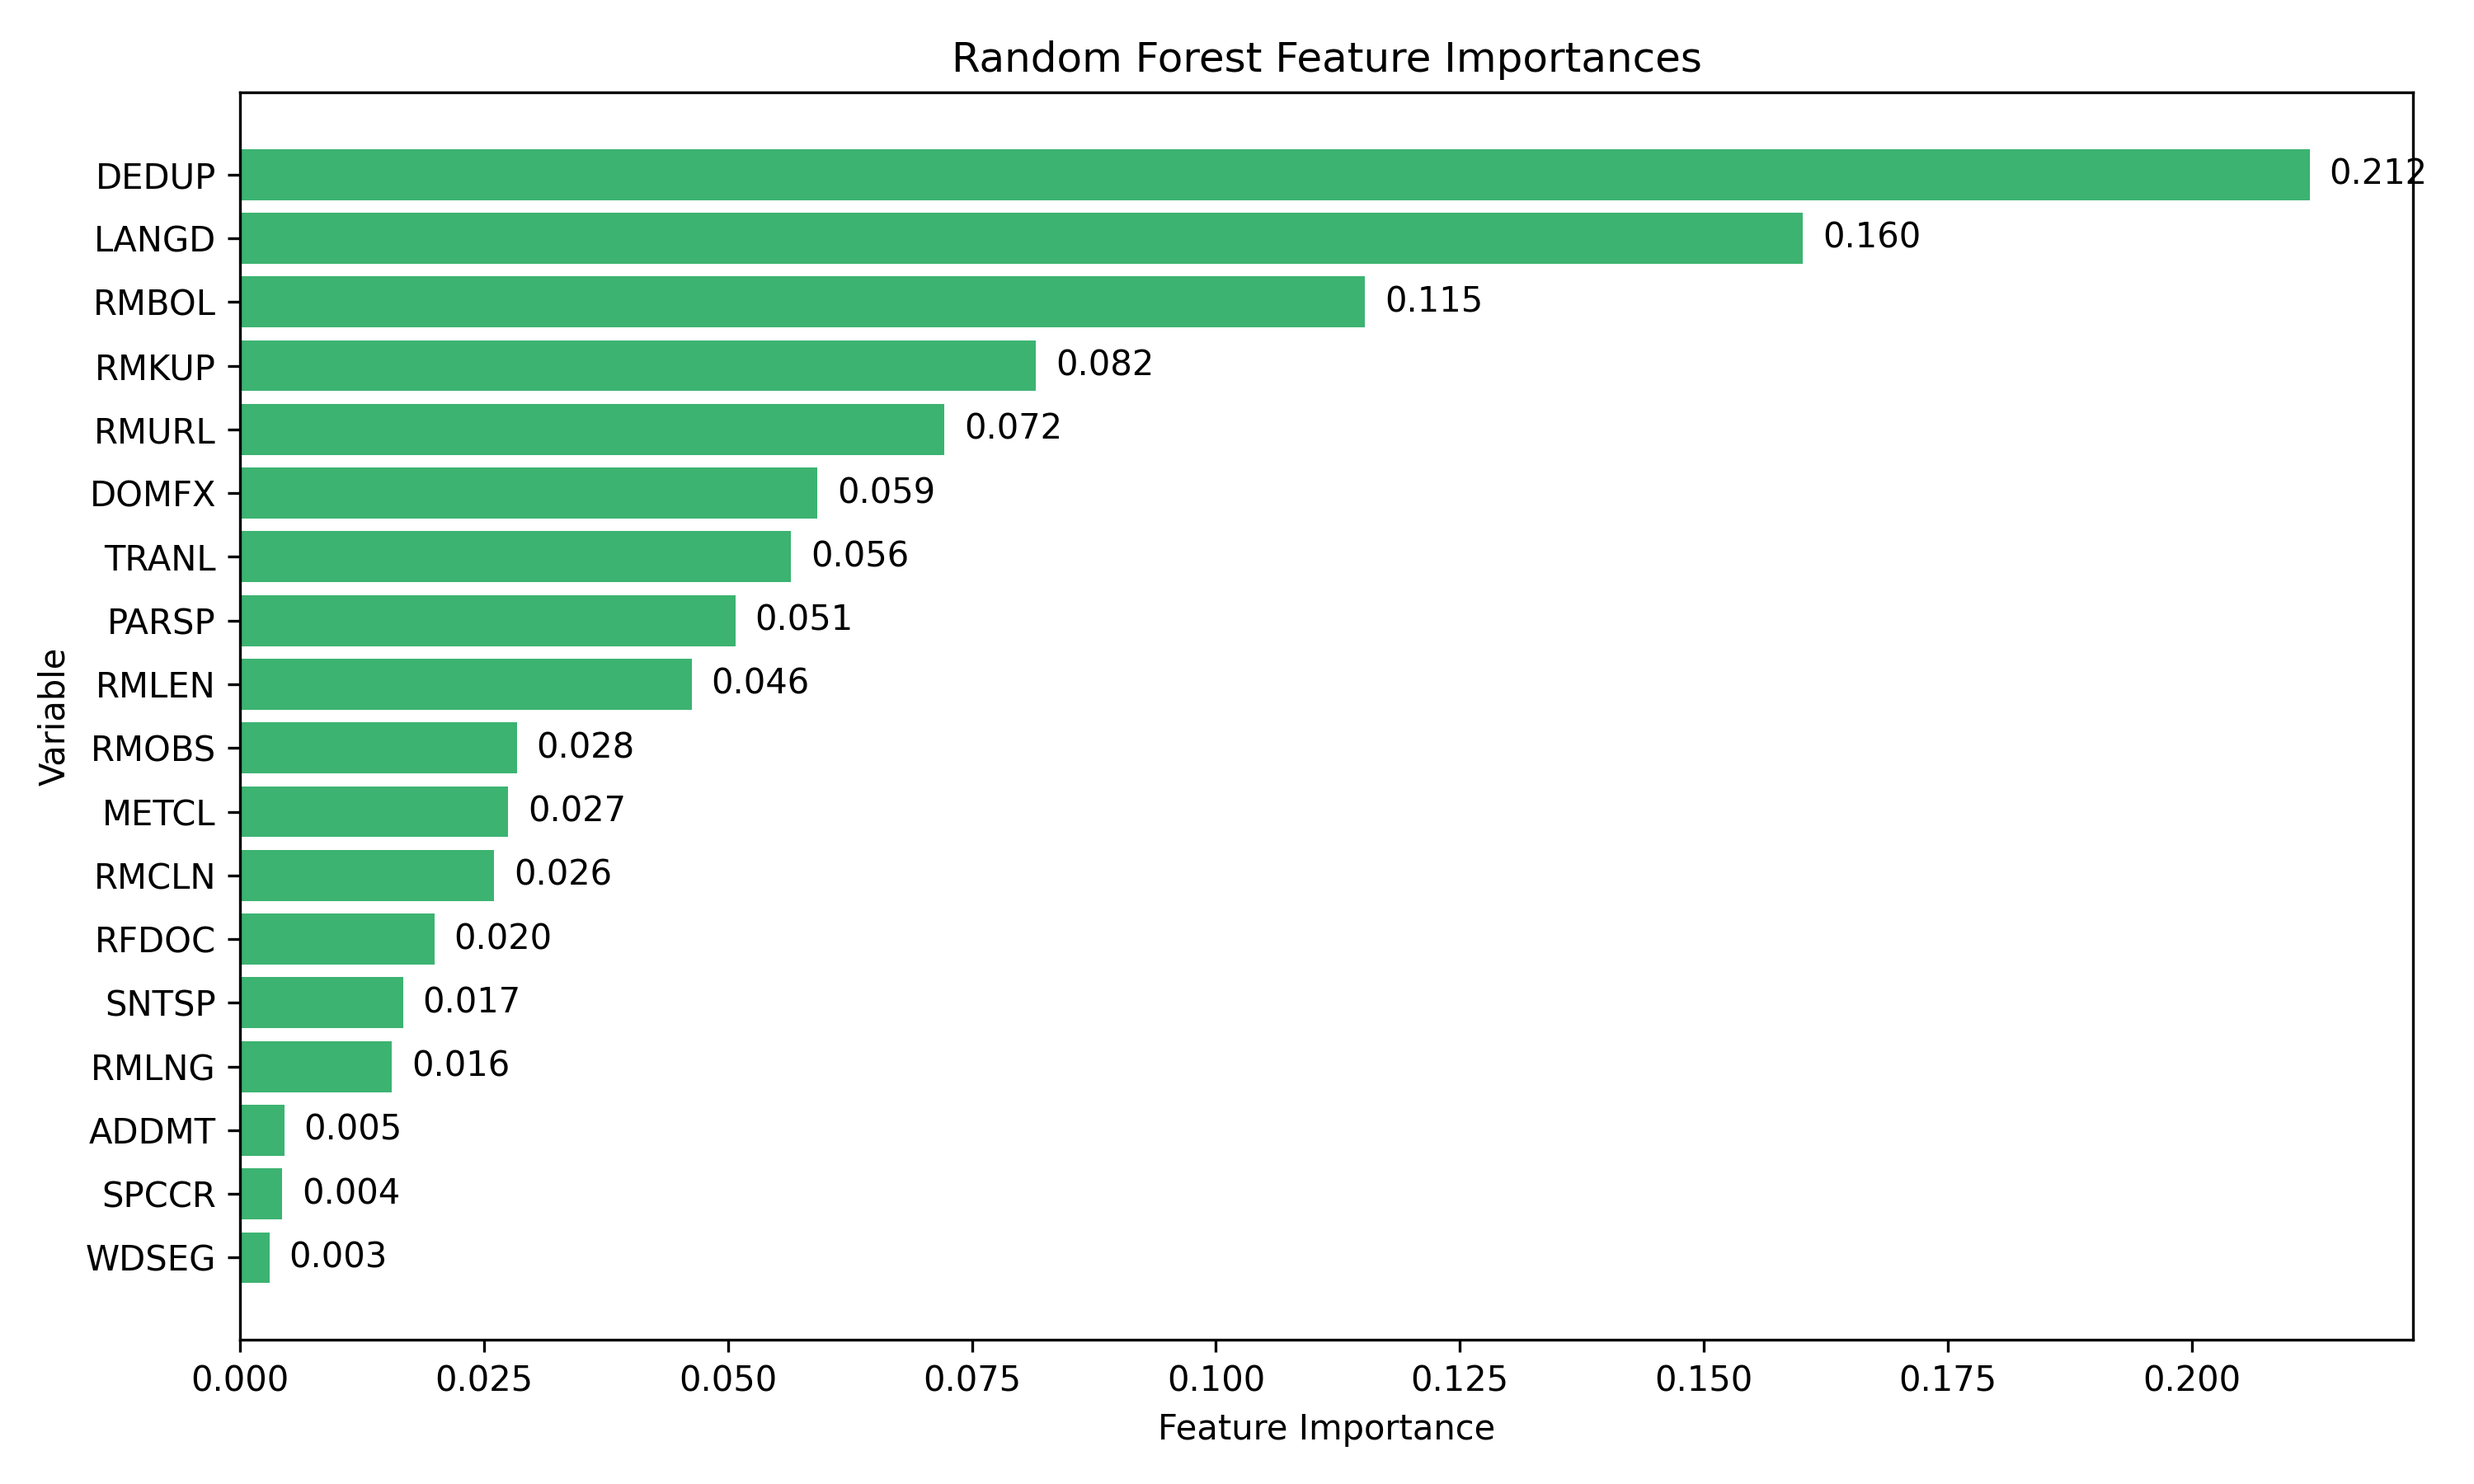
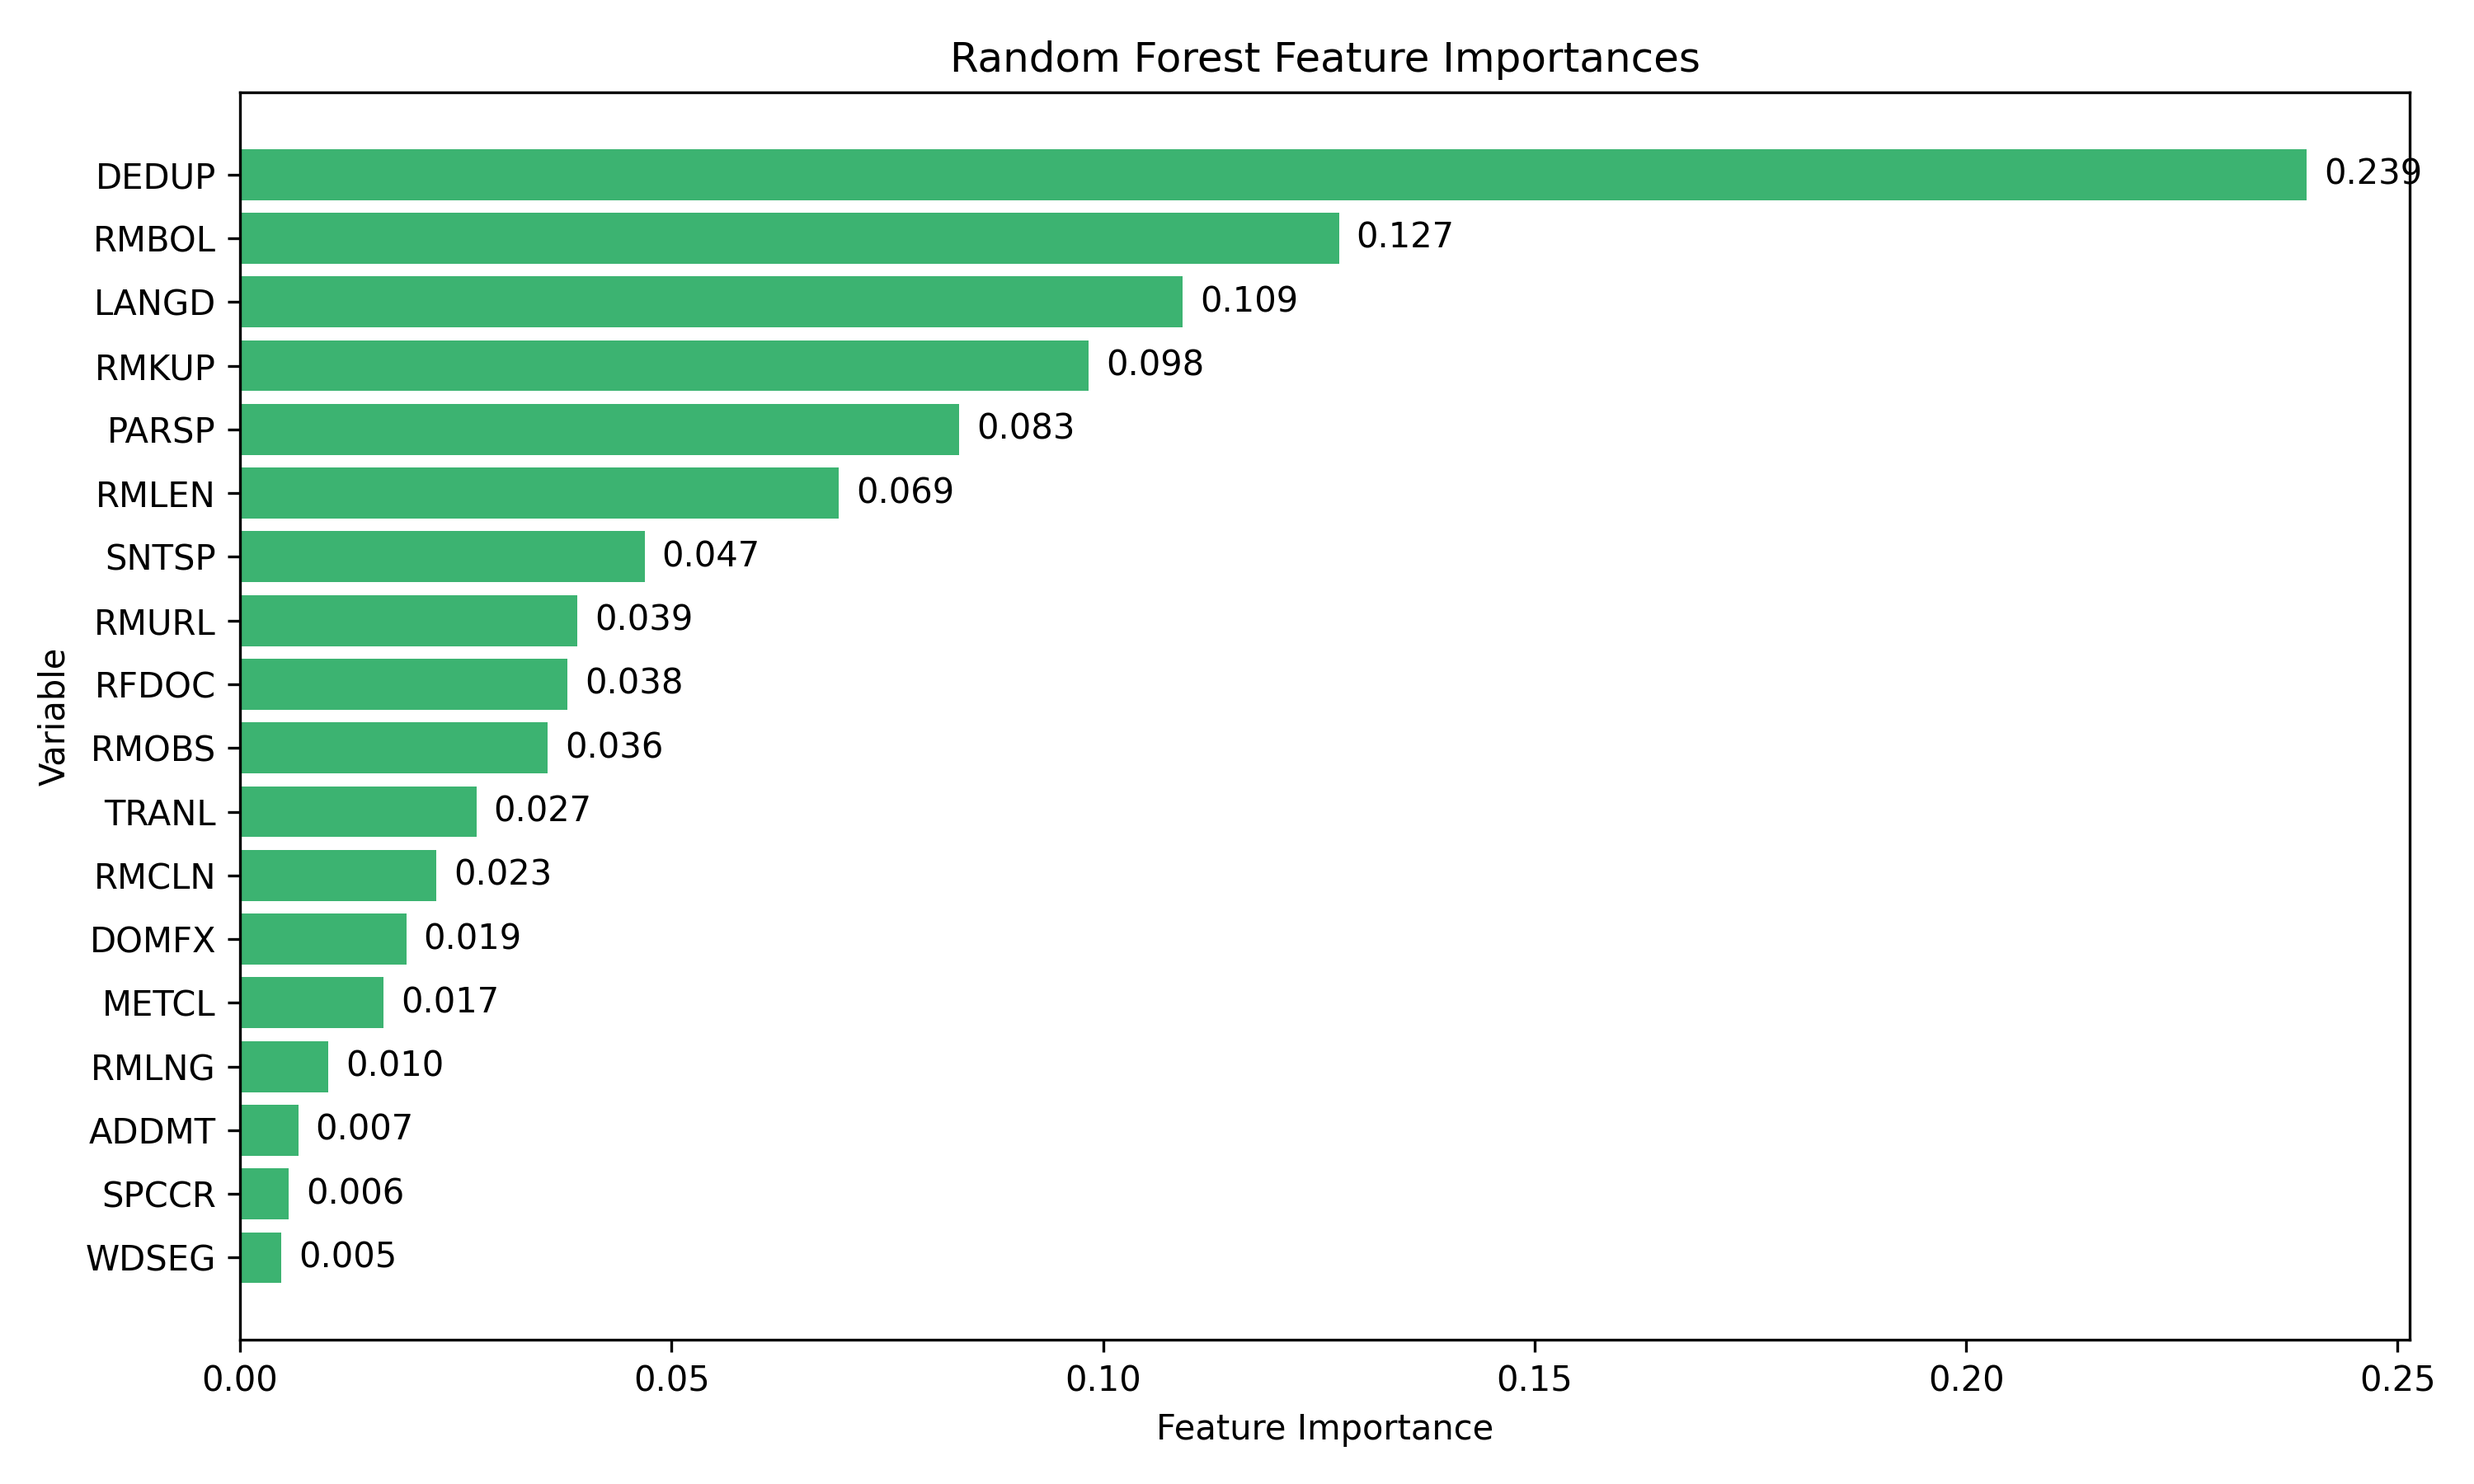
LR+RF for 19 datasets

diff --git a/Sieve-linear-regressions/lr.py b/Sieve-linear-regressions/lr.py
@@ -13,32 +13,12 @@ import numpy as np
 # 1. Create your dataset
 # ----------------------------------------
 
-data = {
-    "Score": [69.5, -27.5, 109, -38.5, -107, 121.5, 86.5, 79, 96, 113, 73, 114, 65, -108],
-    "LANGD": [True, True, True, True, True, True, True, True, True, True, False, False, False, False],
-    "DEDUP": [True, True, True, True, True, False, False, False, False, False, False, False, False, False],
-    "RMKUP": [True, True, True, True, False, False, False, False, False, False, True, False, False, False],
-    "RMLEN": [True, False, False, False, False, False, False, True, True, False, False, False, False, False],
-    "RFDOC": [True, True, True, False, False, False, False, False, False, False, False, False, False, False],
-    "RMBOL": [True, False, False, False, True, False, False, False, False, False, False, False, False, False],
-    "RMOBS": [True, True, False, False, False, False, False, False, False, False, False, False, False, False],
-    "METCL": [True, False, False, True, False, False, False, False, False, False, False, False, False, False],
-    "RMURL": [True, False, True, False, False, False, False, False, False, False, False, False, False, False],
-    "RMCLN": [False, True, False, False, False, False, False, False, False, True, False, False, False, False],
-    "SNTSP": [False, False, False, True, False, False, True, False, False, False, False, False, False, False],
-    "RMLNG": [False, False, False, True, False, True, False, False, False, False, False, False, False, False],
-    "PARSP": [False, False, True, False, False, True, False, False, False, False, False, False, False, False],
-    "DOMFX": [False, True, False, False, False, False, False, False, False, False, False, False, False, False],
-    "TRANL": [False, False, False, True, False, False, False, False, False, False, False, False, False, False],
-    "SPCCR": [False, False, False, False, False, False, True, False, False, False, False, False, False, False],
-    "ADDMT": [False, False, False, False, False, False, True, False, False, False, False, False, False, False],
-    "WDSEG": [False, False, False, False, False, True, False, False, False, False, False, False, False, False],
-}
-
-df = pd.DataFrame(data)
-
-# Convert TRUE/FALSE to 1/0
-df = df.replace({True: 1, False: 0})
+df = pd.read_csv("Sieve-linear-regressions/lrdata.csv", header=None)
+df = df.set_index(0)
+df = df.transpose()
+df.columns.name = None
+df = df.replace({"TRUE": 1, "FALSE": 0, True: 1, False: 0})
+df["Score"] = pd.to_numeric(df["Score"], errors="coerce")
 
 # ----------------------------------------
 # 2. Separate features and target
